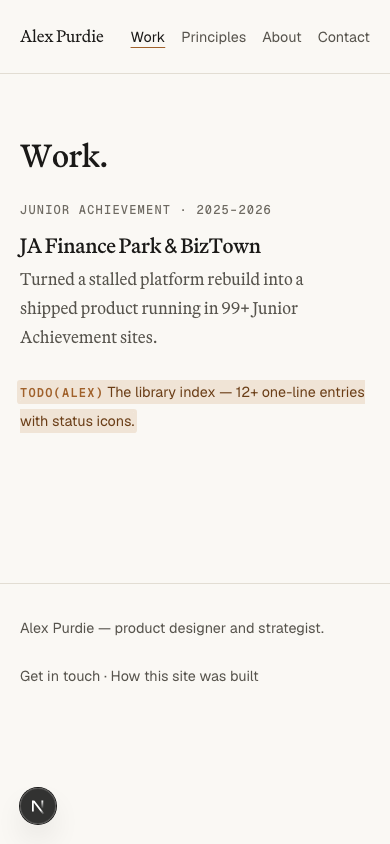
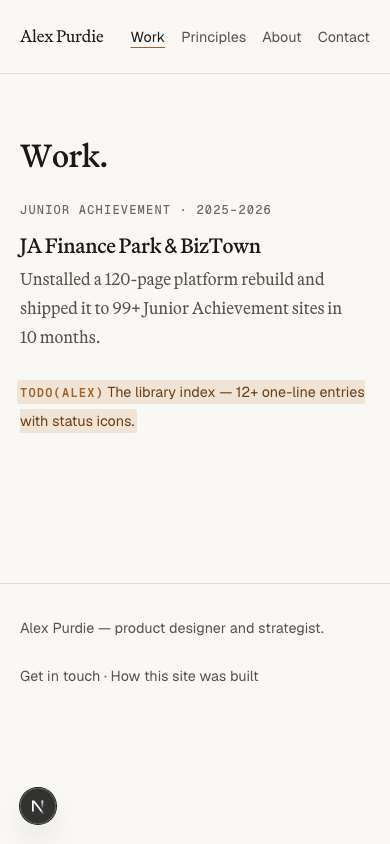
JA Finance Park, written from the intake
The first real case study. Every fact traceable to Alex's intake answers;
nothing invented. Nine TODO(alex) markers remain across the site and none of
them are in this one.

What the intake unlocked that the addendum could not: the actual constraint.
Not the timeline or the 120 pages, but joining three months into a stalled
project as the newest person on a talented team that believed its process was
already sound — and having to change how they worked without being asked to.
That is the case study. The backlog reframe is what he did; the delicacy of
doing it is what makes it senior.

Structure follows the brief's skeleton. Three things worth noting:

"What went wrong" carries the real answer rather than a safe one — that he did
not treat the influencing delicately enough under the pressure of being a new
hire, and that buy-in should have come before the change rather than being
earned retroactively by results. The named idea he has been circling,
empowering the expertise in the room, is presented as something he applied to
the client and should have applied to his own team first.

The lock-screen story is told as him being wrong. Eight rounds of client
pushback read internally as a loss; the client's preference had been
consistent throughout and the team had been asking what instead of why.
Changing that question is what made later features align in fewer rounds.

The AI-in-the-loop note is the honest one. His final wireframes were modified
[…]

Changed region(s): [[0.0615, 0.3081, 0.8615, 0.4313], [0.0615, 0.3697, 0.0923, 0.4313]]

diff --git a/src/content/work/index.ts b/src/content/work/index.ts
@@ -39,20 +39,20 @@ export const WORK: WorkEntry[] = ([
       slug: "ja-finance-park",
       title: "JA Finance Park & BizTown",
       subtitle:
-        "Turned a stalled platform rebuild into a shipped product running in 99+ Junior Achievement sites.",
+        "Unstalled a 120-page platform rebuild and shipped it to 99+ Junior Achievement sites in 10 months.",
       client: "Junior Achievement",
       agency: "Whiteboard",
       years: "2025–2026",
       role: "Lead platform strategist",
-      team: "TODO(alex): team size and disciplines",
-      platform: "Tablet-first web platform, used in physical simulation sites",
+      team: "13 at Whiteboard — 3 designers, 2 creative directors, 4 developers, 2 PMs, account lead",
+      platform: "Tablet companion app, native and web, used inside a 4.5-hour live simulation",
       status: "live" as const,
       featured: true,
       order: 1,
       challenge:
-        "How do you rebuild a platform that 99+ sites already depend on, without stopping a single one of them?",
+        "How do you restart a stalled rebuild when you are the newest person on the team and nobody asked you to change how they work?",
       product:
-        "A tablet platform that runs the Finance Park and BizTown simulations — the software students use while they are standing in the room.",
+        "The tablet companion for Finance Park — the software a student holds while they are standing in the simulation, deciding whether they can afford the apartment.",
     },
   },
 ] satisfies WorkEntry[]).sort((a, b) => a.meta.order - b.meta.order);

diff --git a/docs/job-rec.md b/docs/job-rec.md
@@ -1,0 +1,85 @@
+# Staff Product Designer — The Coca-Cola Company (Atlanta, GA)
+
+Source: https://careers.coca-colacompany.com/job/23780886/staff-product-designer-atlanta-ga/
+Fetched: 2026-09-11
+
+---
+
+Staff Product Designer | Atlanta, GA US | Coca Cola
+Begin typing to find suggestions.
+Start typing a location to get suggestions, then press the down arrow to select one.
+*Please select location from the dropdown
+Be aware of suspicious emails from people posing as recruiters or senior leaders at The Coca-Cola Company. Do not click on interview links sent to you directly, and never share money or personal financial information. To learn how to identify recruitment scams, visit
+Senior Product Designer II
+Discover more opportunities with our global bottling partners and brands.
+The application process and what to expect.
+Learn about our company’s purpose and vision.
+The Coca-Cola Company is transforming its supply chain for the future. As a business operating at extraordinary scale, we are building the digital capabilities, platforms, and intelligent systems that will redefine how we plan, produce, move, and deliver products.
+We are creating a more connected, data-driven supply chain that empowers teams with greater visibility, faster decision making, and seamless collaboration across planning, manufacturing, logistics, and customer fulfillment. This transformation extends beyond process improvement. It is an opportunity to shape the next generation of supply chain capabilities through automation, AI, advanced analytics, intelligent planning, and digital operations that drive growth, resilience, and operational excellence.
+We’re bringing together Product, Engineering, Design, and Data in small, empowered teams with ownership from discovery through delivery and iteration. Design and research are central to this shift, helping teams understand how people actually work, simplify complex systems, and create experiences that are coherent, useful, and built for impact.
+This is a chance to help define what great product design looks like inside one of the world’s most iconic brands: deeply practical, beautifully crafted, and built for a business where digital and the physical world meet every day.
+Staff Designers at The Coca-Cola Company operate across product areas, not just within one. Your scope will span:
+Digital supply chain capabilities and experiences that enable planning, manufacturing, logistics, and customer fulfillment across Coca-Cola's North America network
+Operational platforms and decision-support tools used by teams that plan, make, move, and deliver products every day
+The design system and shared experience frameworks that give our products coherence at scale
+AI-enabled and intelligent product experiences as we integrate emerging capabilities across our platform
+The design practice itself: how we work, how we grow designers, and how we earn influence across the organization
+You will not be heads-down on a single product area. You will be the connective tissue across teams, the person who sees the whole board and makes the right calls about where design needs to go next.
+Strategic Design Influence and Leadership
+Co-create product strategy with product management and engineering partners for your areas, shaping vision and roadmap from the start, not after the fact
+Craft UX direction across multiple product areas, ensuring coherence, quality, and user-centricity across multiple user types
+Anticipate and break down organizational and technical resistance, navigating ambiguity with confidence and earning trust through sound judgment
+Executive-level communication on design strategy, crafting narratives that land with senior leadership and move stakeholders to alignment
+Design Craft and Innovation
+Develop seamless, scalable design solutions that prioritize customer value and address complex, interconnected needs
+Work with Design leader and team to establish our design system, ensuring it evolves to meet the demands of a growing, global product portfolio
+Model exceptional craft standards and hold a high bar for quality across every experience the team ships
+Introduce and champion new design approaches, tools, and methodologies, including AI-assisted design, that help the team move faster without sacrificing rigor
+Practice Building and Governance
+Create and maintain governance practices around design systems, accessibility, and experience standards
+Partner with Product and Design leadership to define how design works at Coca-Cola: the rituals, frameworks, and ways of working that make the team effective and scalable
+Scale your expertise: Identify gaps in practice maturity and proactively close them, building systems, workflows or infrastructure that allows other designers to do their best work
+Mentorship and Talent Growth
+Mentor and develop design craft and experience strategy on the team, actively investing in the growth and evolution of design at The Coca-Cola Company
+Lead critique, feedback, and review processes that raise the quality of the team's work and develop design judgment across the organization
+Foster a culture of experimentation, reflection, and continuous improvement, making learning a visible and valued part of how the team operates
+Cross-Functional Influence
+Build deep, trusted relationships with product, engineering, data, and research partners at the most senior levels
+Secure stakeholder buy-in through compelling storytelling and a track record of delivering outcomes, not just artifacts
+Represent the design organization in strategic conversations across the business, advocating for user-centered approaches with clarity and credibility
+8-10 years of product design or UX experience, with at least 2 years operating at a staff, principal, or design lead level
+Education: Bachelor's degree or equivalent practical experience
+A portfolio demonstrating strategic design and thought leadership on complex, high-impact digital products with measurable business and user outcomes
+Proven ability to co-own product strategy alongside product management and engineering, shaping direction from the top down, not just responding to it
+Experience contributing to or significantly evolving a design system and the governance practices around it, especially how embedded AI components work within and across platforms. Know the difference between traditional UX, AI in UX and Agentic UX principles and why they matter, with examples.
+Strong storytelling and communication skills: you can tailor your message to any audience and consistently earn alignment from senior stakeholders
+Demonstrated success mentoring or peer-coaching designers and influencing team capability, not just delivering great work yourself
+Deep fluency in user-centered design, accessibility standards, and interaction design across web and mobile platforms
+Proficiency in Figma, Claude Code, Claude Design and other modern (AI) prototyping tools, with clear examples of how AI is incorporated into your workflows, how you evaluate AI capabilities, as well as how your inputs and outcomes have improved in the last 18 months
+Background in complex B2B Saas or enterprise software, CPG, retail, or ecommerce that span multiple user roles, geographies, and touchpoints, often building systems or connected platforms from the ground up.
+Expertise designing for or alongside AI-enabled and intelligent systems, including agentic or generative experiences
+Experience operating across both consumer-facing and internal tooling product contexts
+Strategic Vision: You can evaluate opportunities and deliver design vision with confidence, connecting user needs, business goals, and technical realities into a coherent experience strategy that others rally behind.
+Design Craft at Scale: You design experiences that are intuitive, accessible, and elegant, and you build the systems that make quality repeatable across a team.
+Effective Influence: You communicate with clarity and credibility at every level of the organization, earning trust through both the quality of your thinking and the outcomes you deliver.
+Practice Leadership: You build the infrastructure, culture, and habits that make a design team great, not just the work that comes out of it.
+Mentorship and Coaching: You invest the people around you and make developing designers a core part of how you lead.
+Customer-First Judgment: You hold the line on user value when tradeoffs get hard, and you do it in ways that bring partners with you rather than creating friction.
+To be considered for this role, please include your portfolio link and any required access credentials (e.g., password) directly on your resume — we’d love to see your work!
+The Coca-Cola Company will not offer sponsorship for employment status (including, but not limited to, H1-B visa status and other employment-based nonimmigrant visas) for this position. Accordingly, all applicants must be currently authorized to work in the United States on a full-time basis and must not require The Coca-Cola Company’s sponsorship to continue to work legally in the United States.
+Agile Methodology, Application Development, Budgeting, Business Processes, Business Value Creation, Change Management, Decision Making, Financial Forecasting, Leadership, Long Term Planning, Microsoft Azure, Microsoft Office, Negotiation, Process Improvements, Risk Assessments, Risk Management, Software Development, Software Development Life Cycle (SDLC), Strategic Alignment, Strategic IT, Structured Query Language (SQL), Vendor Management, Waterfall Model
+United States: 202,000 – 229,000 USD&#xa;
+Base pay offered may vary depending on geography, job-related knowledge, skills, and experience. A full range of medical, financial, and/or other benefits, dependent on the position, is offered.
+Annual Incentive Reference Value Percentage:
+Annual Incentive reference value is a market-based competitive value for your role. It falls in the middle of the range for your role, indicating performance at target.
+Our Purpose and Growth Culture:
+We are taking deliberate action to nurture an inclusive culture that is grounded in our company purpose, to refresh the world and make a difference. We act with a growth mindset, take an expansive approach to what’s possible and believe in continuous learning to improve our business and ourselves. We focus on four key behaviors – curious, empowered, inclusive and agile – and value how we work as much as what we achieve. We believe that our culture is one of the reasons
+our company continues to thrive after 130+ years. Visit
+to learn more about these behaviors and how you
+can bring them to life in your next role at Coca-Cola.
+We are an Equal Opportunity Employer and do not discriminate against any employee or applicant for employment because of race, color, sex, age, national origin, religion, sexual orientation, gender identity and/or expression, status as a veteran, and basis of disability or any other federal, state or local protected class. When we collect your personal information as part of a job application or offer of employment, we do so in accordance with industry standards and best practices and in compliance with applicable privacy laws.
+The Coca-Cola Company is an Equal Employment Opportunity/Affirmative Action employer. If you are an individual with a disability and need a reasonable accommodation to assist with your job search or application for employment, please click
+or if you have a question on
+California Notice at Collection
+Do Not Sell My Personal Information
+The Coca‑Cola Company. All rights reserved.
